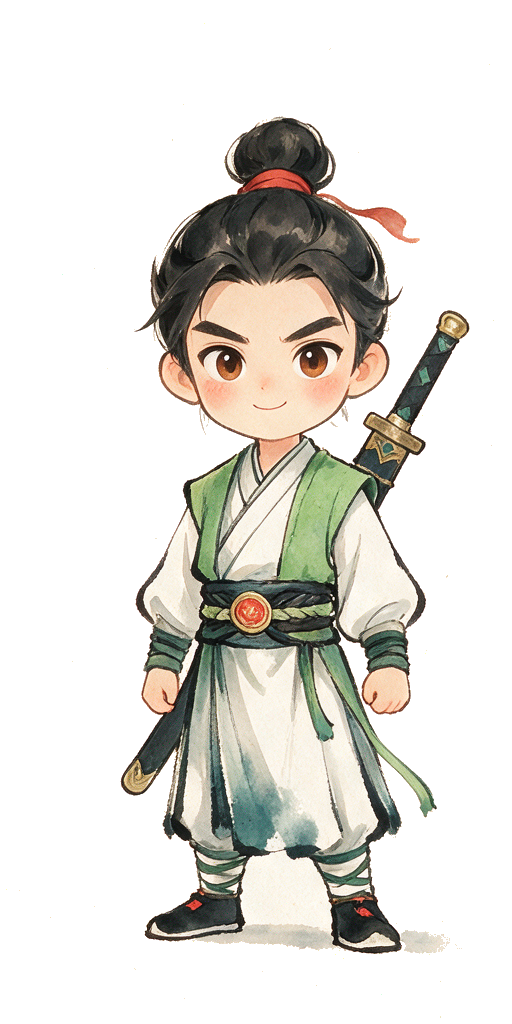
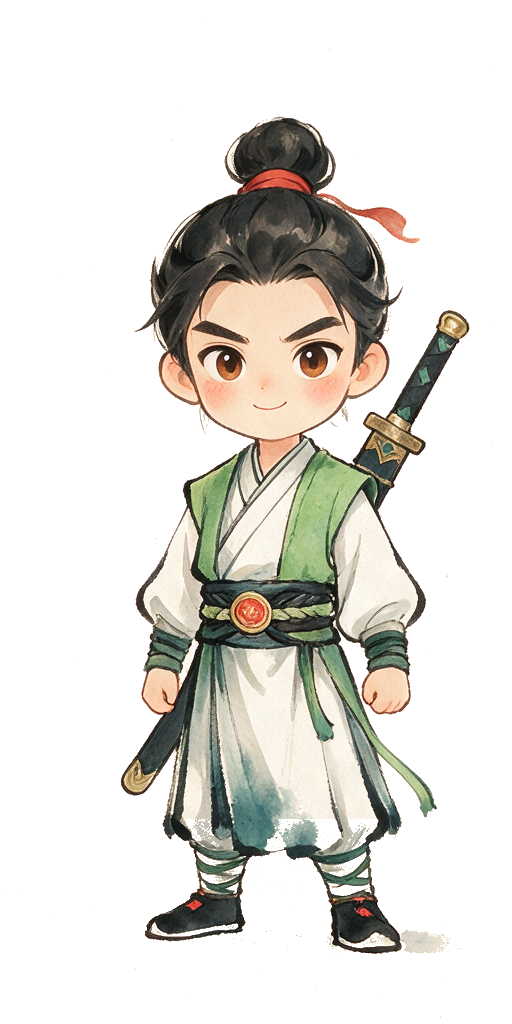
T03 Q1 六轮：静止帧腿间暖白残留清除（AI 底色暖白致 cutout_leg_gap 漏抠，00~03 四帧同病）——本地外科清除近白/米色像素（深色靴/彩袍/剑鞘不动），腿间 alpha 全 0 + 拼图目验本体完好；管线反馈：cutout 建议加暖白容差（NPC 帧表预防）

Changed region(s): [[0.3438, 0.7812, 0.75, 0.9375], [0.6875, 0.9062, 0.75, 0.9375]]

diff --git a/tasks/questions/Q1-T03.md b/tasks/questions/Q1-T03.md
@@ -1,8 +1,16 @@
 # Q1-T03 · L 环打回：walk 动画不自然 + 流程纠正
 
-> 打回人：Leo（21:27）· 处理人：ZCode · 状态：**五轮：素材 v3 已接入（23:20），待 L 环复验**
+> 打回人：Leo（21:27）· 处理人：ZCode · 状态：**六轮：walk ✓ + 腿间残留已清（23:40），待 L 环复验**
 > 一轮结果：抬剑帧已消（04 出招预备移出 walk）。「高抬腿帧」仍在 → 见下方复验反馈#2。
 > 处理结果：两现象根因均为代码侧帧映射（素材实为六帧表，04=出招预备混入 walk 循环）→ 已修 `HERO_FRAME.walkEnd 4→3`；素材目验结论与可选项见 `Q1-T03-素材目验回报.md`
+
+## 六轮 · 静止帧腿间残留清除（ZCode 23:40）
+
+- **Leo 反馈**：walk ✓；00 静止帧两脚中间不透明，需处理。
+- **定位（像素级）**：00 帧腿间 y≈0.84~0.92 有不透明近白/暖米色残留（rgb 247,245,234 与 203,191,185 等）——AI 生成底色为暖白非纯白，管线 cutout_leg_gap 阈值未咬住；待机帧双腿近并拢缝隙细，最易漏。01~03 行走帧同窄带也有 1~2k 残留像素。
+- **处理（本地外科手术，git 可回滚）**：①主带（y 0.80~0.955 × x 0.25~0.75）清近白（min>185 且彩度<35）10,436px；②窄带（y 0.875~0.932 × x 0.36~0.64）清暖白/米色（min>160 且彩度<55）00 帧 726px + 01/02/03 各 1,029/1,960/1,374px。深色靴、彩色袍、剑鞘一律不动。
+- **验收**：00 腿间中心 y=0.84/0.88/0.89/0.91 alpha 全 0；腿区中央条带不透明 72.1%→53.3%（与行走帧一致）；拼图目验四帧腿间干净、角色本体（双腿/靴/袍摆/剑鞘）完好无误抠。24/24 保持。
+- **管线反馈（转 CodeBuddy，非本工单范围）**：cutout_leg_gap 建议增加「暖白底色容差（彩度<55 且 min>160）」分支，山贼/野狼/狼王帧表同底色工艺大概率同病。
 
 ## 五轮 · 素材 v3 接入（ZCode 23:20）
 

diff --git a/tasks/threads/T03.md b/tasks/threads/T03.md
@@ -17,3 +17,4 @@
 | 08-21 21:58 | CodeBuddy | 📦 素材 v3 落地 | Leo 两点反馈处理：①剑收鞘背背后（prompt 硬化）②腿间透明（管线新增 cutout_leg_gap 腿区白色连通块补抠，全角色帧生效）。hero 已重生+补抠。ZCode 核验清单更新：腿位/朝向/收剑/腿间透明四项。 |
 | 08-21 22:00 | Leo/CodeBuddy | 📝 动画播报规则（T06 前置） | Leo 指出 04~06 连播会不连贯——澄清：帧组分立，**禁止跨组连播**。硬规则：①出招=仅 04→05 两帧；②普攻=仅 06 单帧+代码前冲/剑光（75 §5b）；③走位=01~03 循环；④组间切换靠代码动效（闪白/位移）过渡，不允许 05→06 直切。T06 任务卡发单时此规则进需求表。 |
 | 08-21 23:20 | ZCode | ✅ Q1-T03 五轮·v3 接入 | 四项核验全过：①腿位 01左/02右/03收拢小步交替（拼图对比）②朝向 01~03 全侧左（拼图对比）③剑收鞘背背后（拼图对比）④腿间透明（像素测量：行走帧腿区中央 ~50% 不透明 vs 待机 72%，缝隙真实）· 按播报硬规则③接入 walk=01~03 循环 · 三零+24/24+帧序列 1→2→3 回卷 ✓ · 待 L 环复验收口 |
+| 08-21 23:40 | ZCode | ✅ Q1-T03 六轮·腿间残留 | Leo：walk ✓，00 静止帧腿间不透明。像素定位=暖白底色残留（cutout 未咬住，01~03 同病 1~2k px）→ 本地外科清除（主带 10,436+窄带 726/1,029/1,960/1,374 px，深色靴/彩袍/剑鞘不动）· 腿间中心 alpha 全 0 + 拼图目验本体完好 · 24/24 保持 · 管线反馈已附（cutout 建议加暖白容差，NPC 帧表同病预防）· 待 L 环复验 |

diff --git a/tasks/LOG.md b/tasks/LOG.md
@@ -4,6 +4,7 @@
 
 | 时间 | 方向 | 事件 | 详情 |
 |------|------|------|------|
+| 2026-08-21 23:40 | ZCode → CodeBuddy | ✅ Q1-T03 六轮·腿间残留清除 | walk ✓ 后 00 静止帧腿间暖白残留 · 本地外科清除(00~03 共 4 帧) · 腿间 alpha 全 0+本体完好 · 管线反馈:cutout 建议加暖白容差(NPC 帧表同病预防) · 待 L 环复验 |
 | 2026-08-21 23:20 | ZCode → CodeBuddy | ✅ Q1-T03 五轮·v3 接入 | 四项核验全过(腿位/朝向/收剑/透明) · walk=01~03 循环 · 三零+24/24 · 待 L 环复验 |
 | 2026-08-21 22:00 | CodeBuddy | 📝 帧组播报规则 | 出招≠连播：04→05 / 06 单独+代码动效，禁止 05→06 直切（T06 需求表固化） |
 | 2026-08-21 21:58 | CodeBuddy → ZCode | 📦 hero v3（收剑+腿间透明） | 核验四项：腿位/朝向/收剑/透明 |

diff --git a/tasks/done/T03.md b/tasks/done/T03.md
@@ -1,6 +1,6 @@
 # T03 · 场景系统（江湖主场景 · 手动移动）
 
-> **状态：Q1 五轮·素材 v3 已接入（ZCode 08-21 23:20 · 待 L 环复验）** · 优先级：P0 · 依赖：T02 ✅ · 发单：2026-08-21 CodeBuddy
+> **状态：Q1 六轮·腿间残留已清（ZCode 08-21 23:40 · 待 L 环复验）** · 优先级：P0 · 依赖：T02 ✅ · 发单：2026-08-21 CodeBuddy
 > 依据：modules/02-场景系统.md · 75 战斗界面规格（仅布局参考）· docs/77 素材清单 v0.7 · UI 基准 assets/ui/ref_jianghu_ui_v1.png
 
 ## 1. 目标
